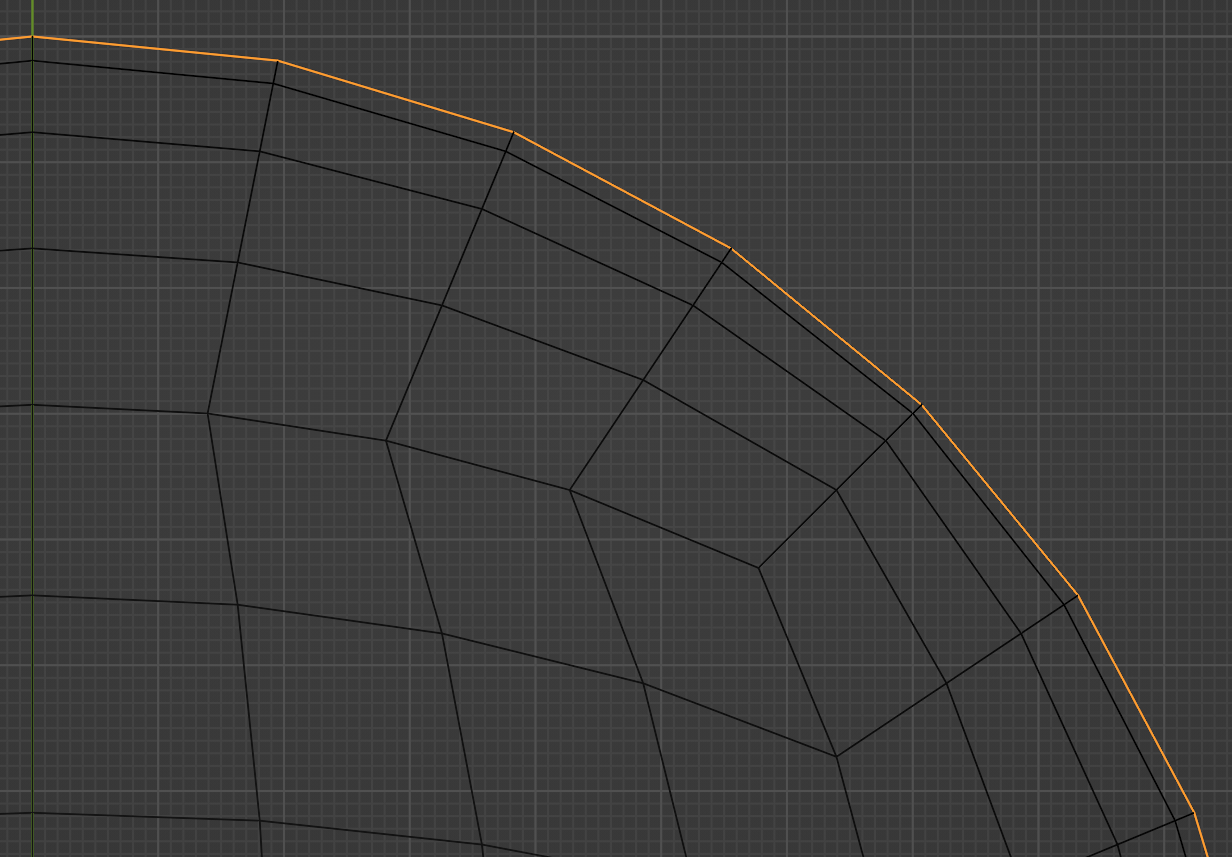
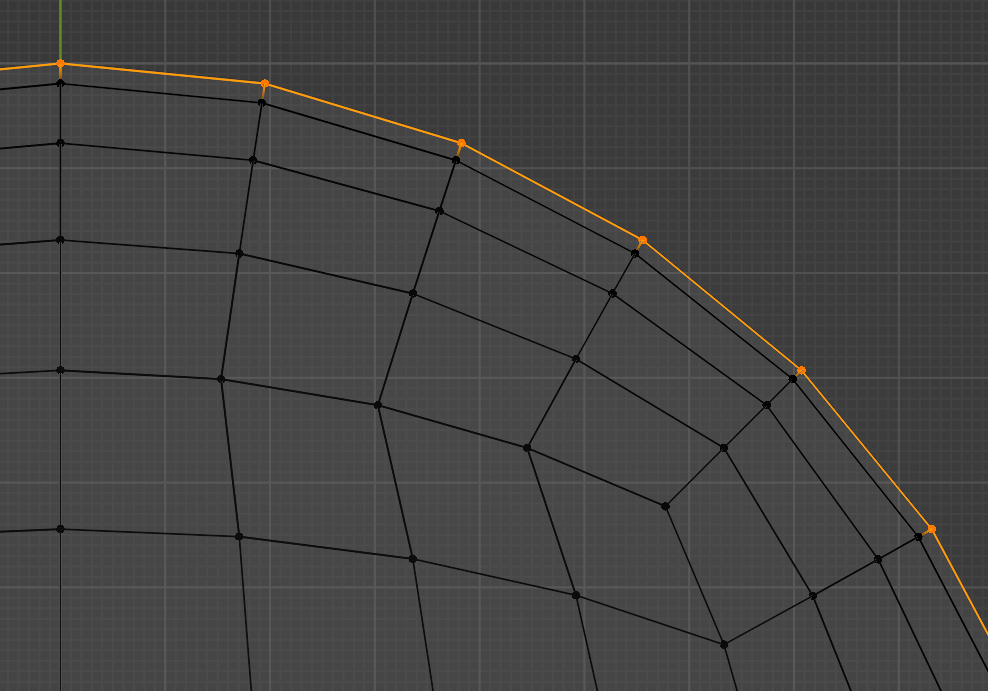
Ensure equal edge lengths within edge loops

diff --git a/add_mesh_even_quad_sphere.py b/add_mesh_even_quad_sphere.py
@@ -1,19 +1,18 @@
 import bpy
 from bpy_extras import object_utils
-from itertools import permutations
 from math import (
-        copysign, pi,
-        sqrt, tan,
+        pi, sqrt,
         )
 from bpy.types import Operator
 from bpy.props import (
         BoolProperty,
-        EnumProperty,
         FloatProperty,
-        FloatVectorProperty,
         IntProperty,
-        StringProperty,
         )
+from mathutils import (
+        Vector,
+        Quaternion,
+)
 
 
 def even_quad_sphere(slices, size):
@@ -26,77 +25,77 @@ def even_quad_sphere(slices, size):
     vertIndex = 0
 
     # Top
-    for z in range(0, slices + 1):
-        for x in range(0, slices + 1):
-            i = x + z * lines
+    for v in range(0, lines):
+        for u in range(0, lines):
+            i = u + v * lines
             sideVerts[0][i] = vertIndex
             vertIndex = vertIndex + 1
             verts.append([0.0, 0.0, 0.0])
 
     # Front
-    for y in range(0, slices + 1):
-        for x in range(0, slices + 1):
-            i = x + y * lines
-            if y == slices:
-                sideVerts[1][i] = sideVerts[0][x]
+    for v in range(0, lines):
+        for u in range(0, lines):
+            i = u + v * lines
+            if v == lines - 1:
+                sideVerts[1][i] = sideVerts[0][u]
             else:
                 sideVerts[1][i] = vertIndex
                 vertIndex = vertIndex + 1
                 verts.append([0.0, 0.0, 0.0])
 
     # Right
-    for y in range(0, slices + 1):
-        for z in range(0, slices + 1):
-            i = z + y * lines
-            if z == 0:
-                sideVerts[2][i] = sideVerts[1][i + slices]
-            elif y == slices:
-                sideVerts[2][i] = sideVerts[0][slices + z * lines]
+    for v in range(0, lines):
+        for u in range(0, lines):
+            i = u + v * lines
+            if u == 0:
+                sideVerts[2][i] = sideVerts[1][v * lines + lines - 1]
+            elif v == lines - 1:
+                sideVerts[2][i] = sideVerts[0][u * lines + lines - 1]
             else:
                 sideVerts[2][i] = vertIndex
                 vertIndex = vertIndex + 1
                 verts.append([0.0, 0.0, 0.0])
 
     # Back
-    for y in range(0, slices + 1):
-        for x in range(0, slices + 1):
-            i = x + y * lines
-            if x == slices:
-                sideVerts [3][i] = sideVerts[2][i]
-            elif y == slices:
-                sideVerts [3][i] = sideVerts[0][i]
+    for v in range(0, lines):
+        for u in range(0, lines):
+            i = u + v * lines
+            if u == 0:
+                sideVerts [3][i] = sideVerts[2][i + lines - 1]
+            elif v == lines - 1:
+                sideVerts [3][i] = sideVerts[0][lines * lines - 1 - u]
             else:
                 sideVerts [3][i] = vertIndex
                 vertIndex = vertIndex + 1
                 verts.append([0.0, 0.0, 0.0])
 
     # Left
-    for y in range(0, slices + 1):
-        for z in range(0, slices + 1):
-            i = z + y * lines
-            if z == 0:
-                sideVerts [4][i] = sideVerts [1][i]
-            elif y == slices:
-                sideVerts [4][i] = sideVerts [0][z * lines]
-            elif z == slices:
-                sideVerts [4][i] = sideVerts [3][i - slices]
+    for v in range(0, lines):
+        for u in range(0, lines):
+            i = u + v * lines
+            if u == 0:
+                sideVerts [4][i] = sideVerts [3][i + lines - 1]
+            elif v == lines - 1:
+                sideVerts [4][i] = sideVerts [0][(lines - 1 - u) * lines]
+            elif u == lines - 1:
+                sideVerts [4][i] = sideVerts [1][i - lines + 1]
             else:
                 sideVerts [4][i] = vertIndex
                 vertIndex = vertIndex + 1
                 verts.append([0.0, 0.0, 0.0])
 
     # Bottom
-    for z in range(0, slices + 1):
-        for x in range(0, slices + 1):
-            i = x + z * lines
-            if z == 0:
-                sideVerts [5][i] = sideVerts [1][x]
-            elif z == slices:
-                sideVerts [5][i] = sideVerts [3][x]
-            elif x == slices:
-                sideVerts [5][i] = sideVerts [2][z]
-            elif x == 0:
-                sideVerts [5][i] = sideVerts [4][z]
+    for v in range(0, lines):
+        for u in range(0, lines):
+            i = u + v * lines
+            if v == 0:
+                sideVerts [5][i] = sideVerts [3][lines - 1 - u]
+            elif v == lines - 1:
+                sideVerts [5][i] = sideVerts [1][u]
+            elif u == 0:
+                sideVerts [5][i] = sideVerts [4][v]
+            elif u == lines - 1:
+                sideVerts [5][i] = sideVerts [2][lines - 1 - v]
             else:
                 sideVerts [5][i] = vertIndex
                 vertIndex = vertIndex + 1
@@ -105,46 +104,53 @@ def even_quad_sphere(slices, size):
     faces = []
     tempVerts = []
     for s in range(0, 6):
-        invertedWinding = (s == 3) or (s == 4) or (s == 5)
         for y in range(0, slices):
             for x in range(0, slices):
                 i = x + y * lines
                 tempVerts.clear()
-                if invertedWinding:
-                    tempVerts.append(sideVerts[s][i])
-                    tempVerts.append(sideVerts[s][i + 1])
-                    tempVerts.append(sideVerts[s][i + 1 + lines])
-                    tempVerts.append(sideVerts[s][i + lines])
-                else:
-                    tempVerts.append(sideVerts[s][i])
-                    tempVerts.append(sideVerts[s][i + lines])
-                    tempVerts.append(sideVerts[s][i + lines + 1])
-                    tempVerts.append(sideVerts[s][i + 1])
+                tempVerts.append(sideVerts[s][i])
+                tempVerts.append(sideVerts[s][i + 1])
+                tempVerts.append(sideVerts[s][i + 1 + lines])
+                tempVerts.append(sideVerts[s][i + lines])
                 faces.append(tuple(tempVerts))
 
-    sides = ((0, 1, 0), (0, 0, -1), (1, 0, 0), (0, 0, 1), (-1, 0, 0), (0, -1, 0))
-    xDirections = ((1, 0, 0), (1, 0, 0), (0, 0, 1), (1, 0, 0), (0, 0, 1), (1, 0, 0))
-    yDirections = ((0, 0, 1), (0, 1, 0), (0, 1, 0), (0, 1, 0), (0, 1, 0), (0, 0, 1))
-    quarterPi = pi / 4
+    # Top, Front, Right, Back, Left, Bottom
+    sides = ((0, 0, 1), (0, -1, 0), (1, 0, 0), (0, 1, 0), (-1, 0, 0), (0, 0, -1))
+    uDirections = ((1, 0, 0), (1, 0, 0), (0, 1, 0), (-1, 0, 0), (0, -1, 0), (1, 0, 0))
+    # vDirections = ((0, 1, 0), (0, 0, 1), (0, 0, 1), (0, 0, 1), (0, 0, 1), (0, -1, 0)) # not used
+
+    cornerArcAngle = Vector((0, 1, 1)).angle(Vector((1, 1, 1)))
     for s in range(0, 6):
-        side = sides[s]
-        xDir = xDirections[s]
-        yDir = yDirections[s]
-        for y in range(0, slices + 1):
-            for x in range(0, slices + 1):
-                i = x + y * lines
-
-                # Range -1 to 1.
-                xLinear = (2 * x - slices) / slices
-                yLinear = (2 * y - slices) / slices
-
-                # More even distribution
-                xLinear = tan(xLinear * quarterPi)
-                yLinear = tan(yLinear * quarterPi)
-                
-                newPos = [side[i] + xLinear * xDir[i] + yLinear * yDir[i] for i in range(0, 3)]
-                newPosLen = (newPos[0]*newPos[0] + newPos[1]*newPos[1] + newPos[2]*newPos[2]) ** (1/2)
-                newPos = [newPos[i] / newPosLen for i in range(0, 3)]
+        side = Vector(sides[s])
+        uDir = Vector(uDirections[s])
+        # vDir = Vector(vDirections[s])
+        for v in range(0, lines):
+            vLinear = (2 * v - slices) / slices
+            
+            p0 = (side - uDir).normalized()
+            p1 = (side + uDir).normalized()
+            pCenter = Vector(side)
+            
+            p0.rotate(Quaternion(side + uDir, -cornerArcAngle * vLinear))
+            p1.rotate(Quaternion(side - uDir, cornerArcAngle * vLinear))
+            pCenter.rotate(Quaternion(uDir, -pi / 4 * vLinear))
+            
+            zDelta = pCenter - 0.5 * (p0 + p1)
+            slantAngle = side.angle(zDelta)
+            slantAngle = -slantAngle if vLinear < 0 else slantAngle
+            span = Vector(side)
+            span.rotate(Quaternion(uDir, -slantAngle))
+            rotAxis = span.cross(uDir).normalized()
+            
+            ringSegmentDist = pCenter.dot(rotAxis)
+            ringSegmentRadius = sqrt(1.0 - ringSegmentDist * ringSegmentDist) # equal to sin(acos(ringSegmentDist))
+            arcAngle = 2 * zDelta.angle(p0 - (pCenter - ringSegmentRadius * zDelta.normalized()))
+            
+            for u in range(0, lines):
+                newPos = Vector(p0)
+                rotation = Quaternion(rotAxis, arcAngle * (u / slices))
+                newPos.rotate(rotation)
+                i = u + v * lines
                 verts[sideVerts[s][i]][0] = newPos[0]
                 verts[sideVerts[s][i]][1] = newPos[1]
                 verts[sideVerts[s][i]][2] = newPos[2]

diff --git a/__init__.py b/__init__.py
@@ -2,7 +2,7 @@ bl_info = {
     "name": "Even Quad Sphere",
     "description": "Special case of quad sphere which maximizes equality of edge lengths",
     "author": "Zyl",
-    "version": (1, 0),
+    "version": (1, 1),
     "blender": (2, 93, 0),
     "category": "Add Mesh"
 }

diff --git a/README.md b/README.md
@@ -1,12 +1,12 @@
 # Even Quad Sphere
 
-Special case of quad sphere which maximizes equality of edge lengths.
+Special case of quad sphere which makes lengths of edges within same edge loops equal.
 
 Quad sphere from "Extra Objects" addon (unequal edge lengths even on axis-aligned circles):
 
 ![Addon preferences](img/quad_sphere_extra_objects_addon.png "Extra Objects addon quad sphere")
 
-Quad sphere from this addon (equal edge lengths on axis-aligned circles):
+Quad sphere from this addon (equal edge lengths of edges within same edge loops):
 
 ![Addon preferences](img/even_quad_sphere.png "Quad sphere made by this addon")
 

diff --git a/CHANGES.md b/CHANGES.md
@@ -1,0 +1,5 @@
+# 1.1 (2024-06-05)
+* Rewrote math to guarantee equal edge length within all edge loops instead of just the edges of the three axis-aligned circles within the sphere.
+
+# 1.0 (2024-04-29)
+* Initial release.
